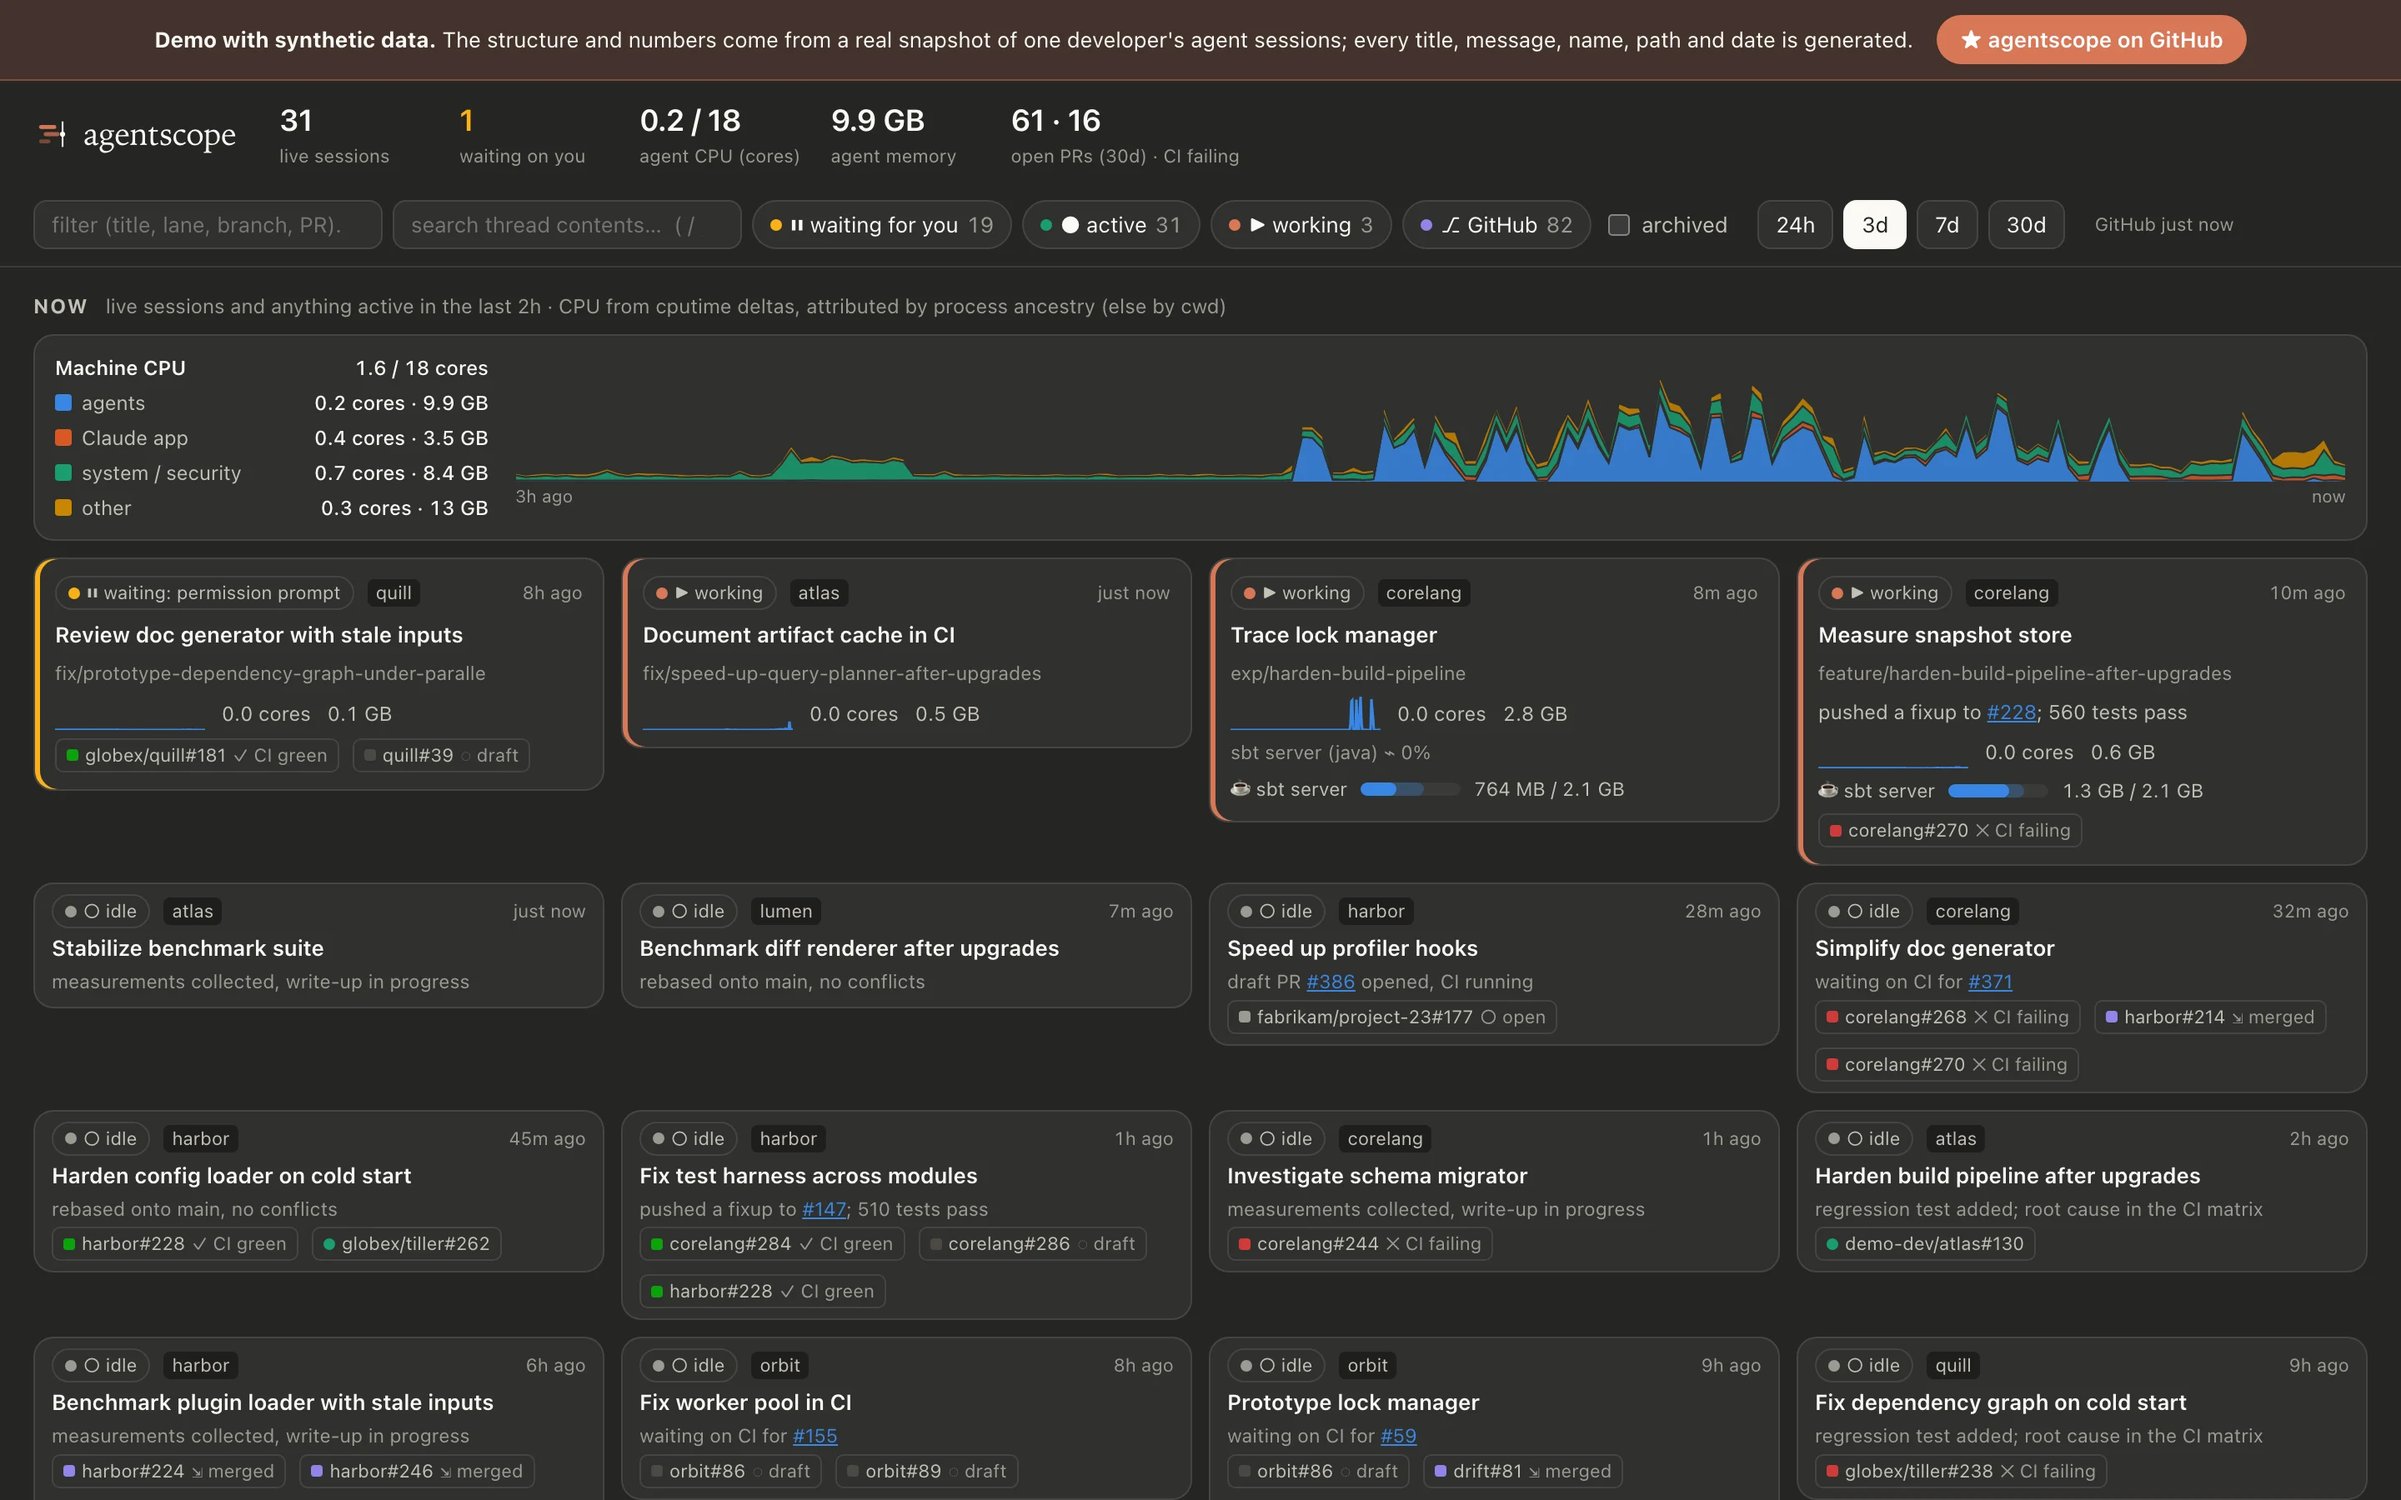
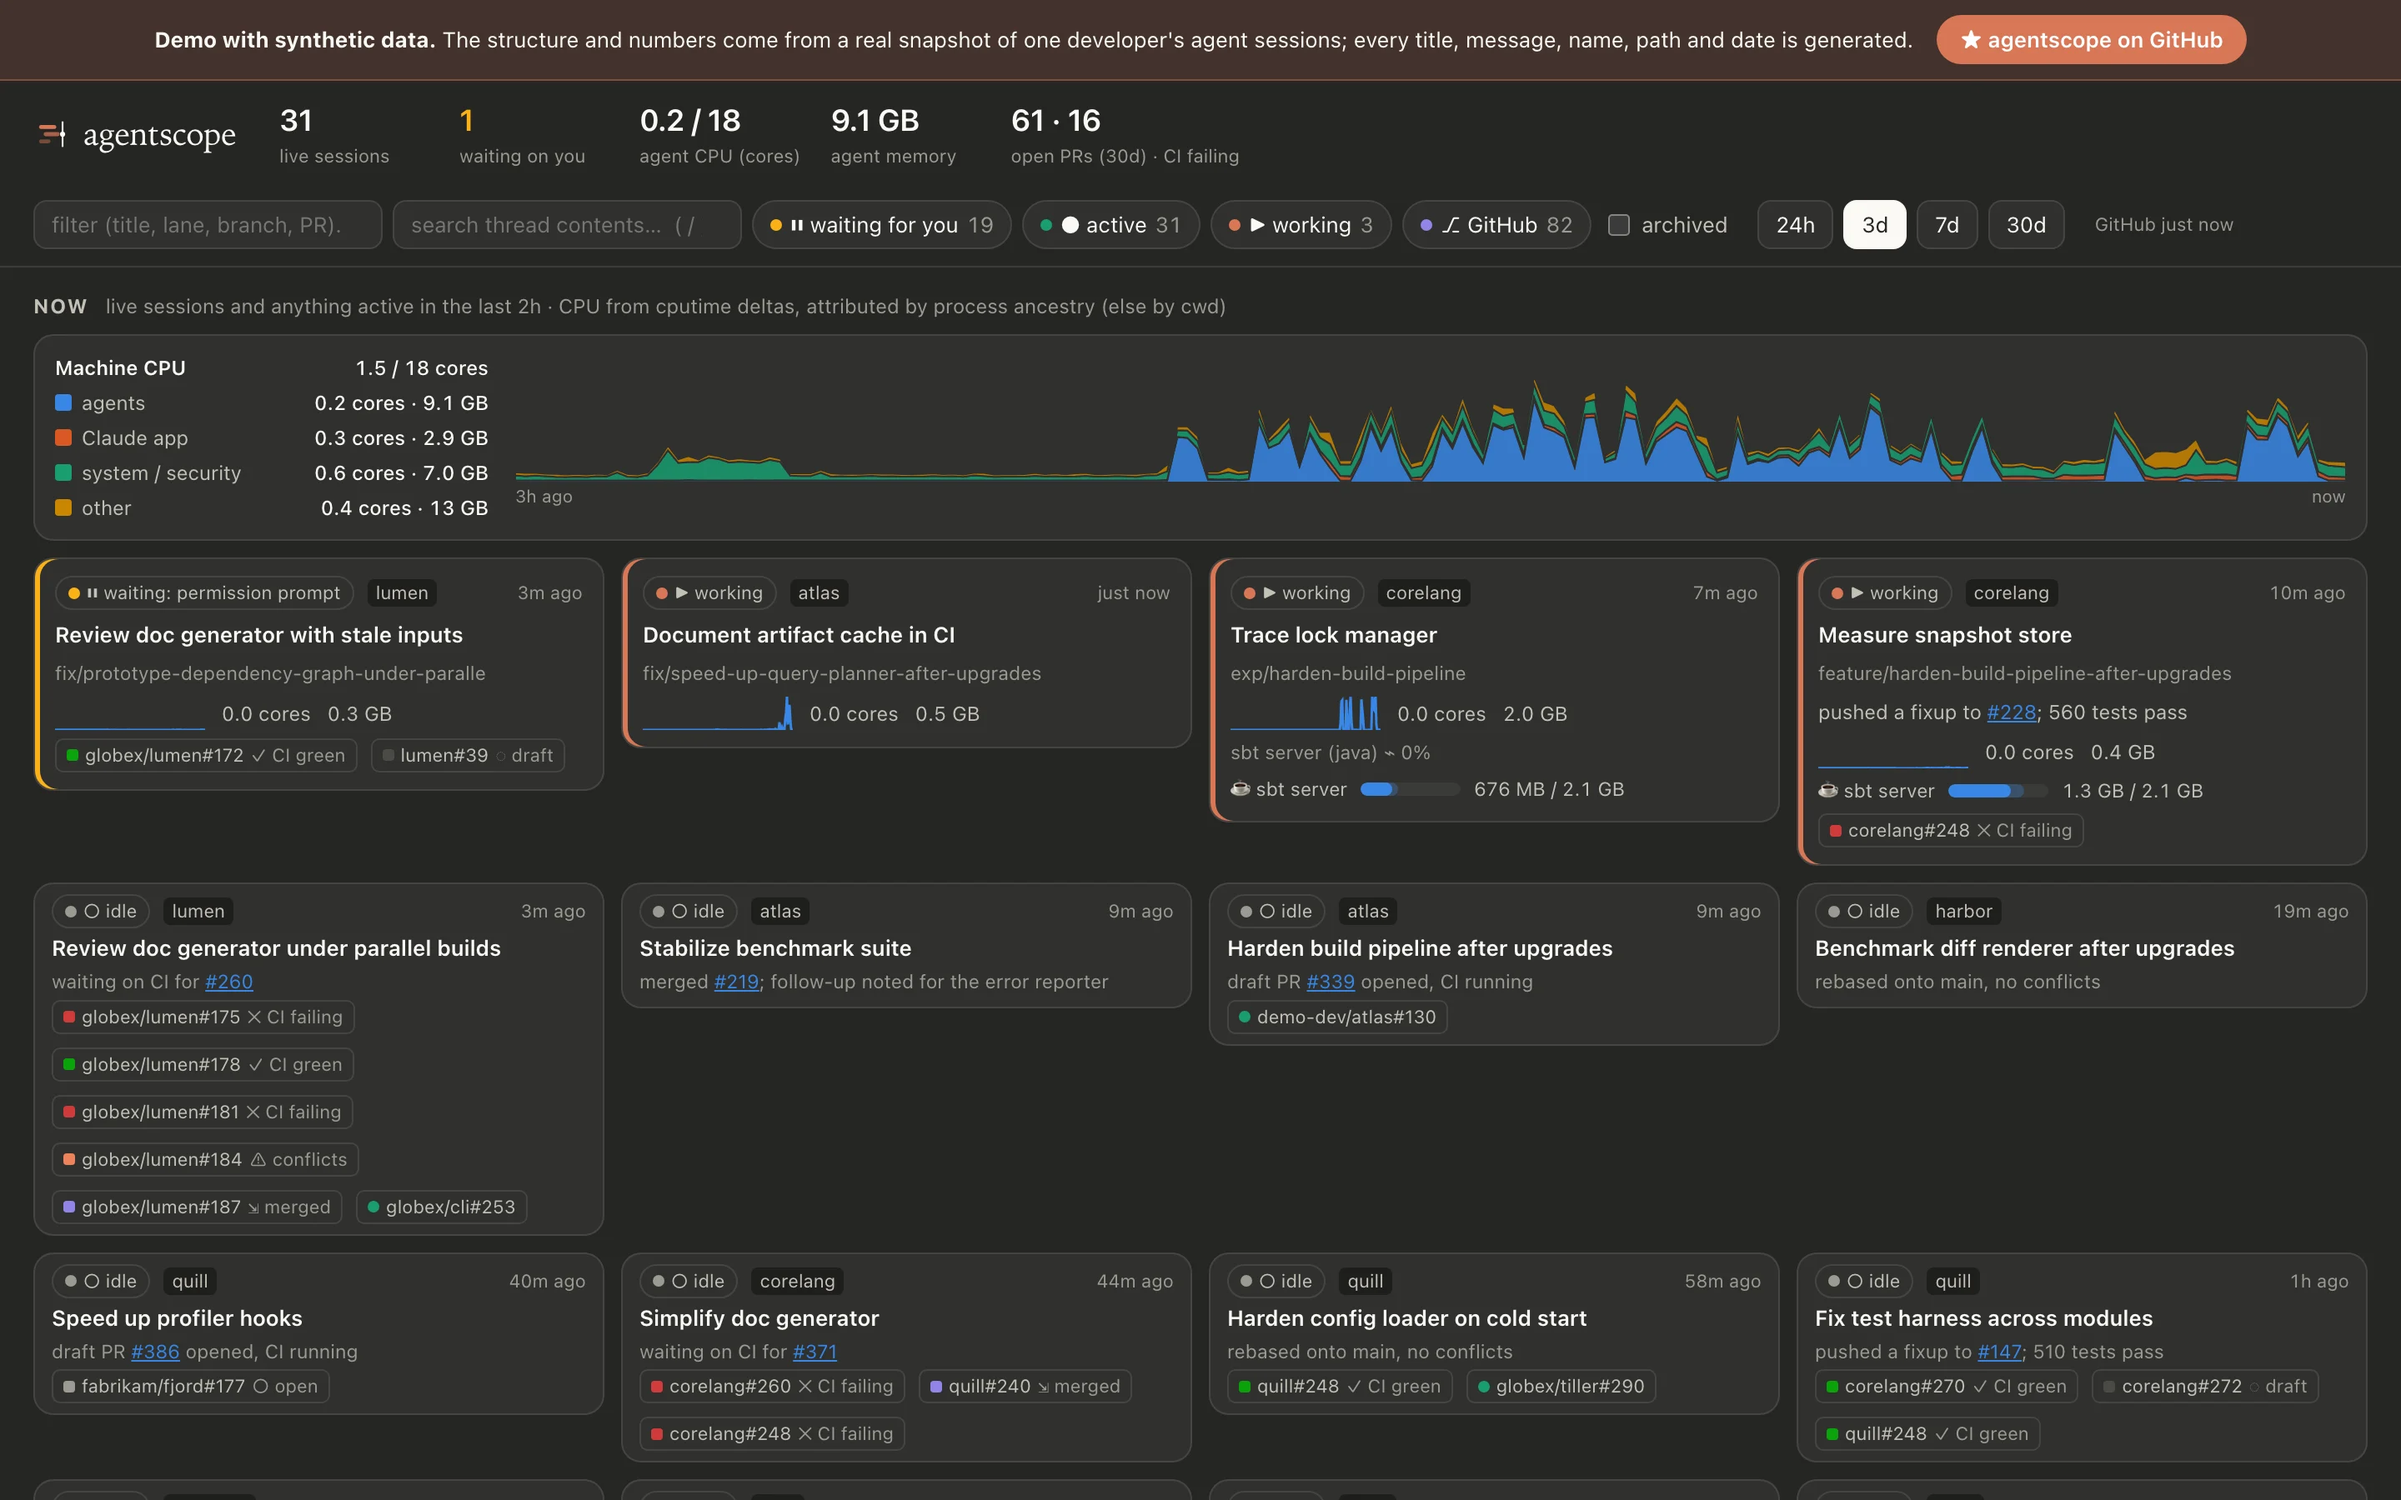
Demo: leave agentscope's own helper JVM out; regenerate screenshots

diff --git a/demo/export.py b/demo/export.py
@@ -351,7 +351,7 @@ def anonymize(state, load, threads, procs):
                    for p in state["proposals"]],
         orphans=[dict(o, label=map_proc_label(o["label"]), args=map_proc_label(o["label"]), cwd=None) for o in state["orphans"]],
         jvms=[dict(j, sid=sid(j["sid"]) if j.get("sid") else None, label=map_jvm_label(j["label"]), main=map_jvm_label(j["label"]), args="", vendor="")
-              for j in state["jvms"]],
+              for j in state["jvms"] if j["label"] != "agentscope helper"],  # our own helper: its name is a real repo
         jvm_hist=None,
         machine_hist=[[t, b, [[sid(x), c] for x, c in top]] for t, b, top in state["machine_hist"]],
     )
